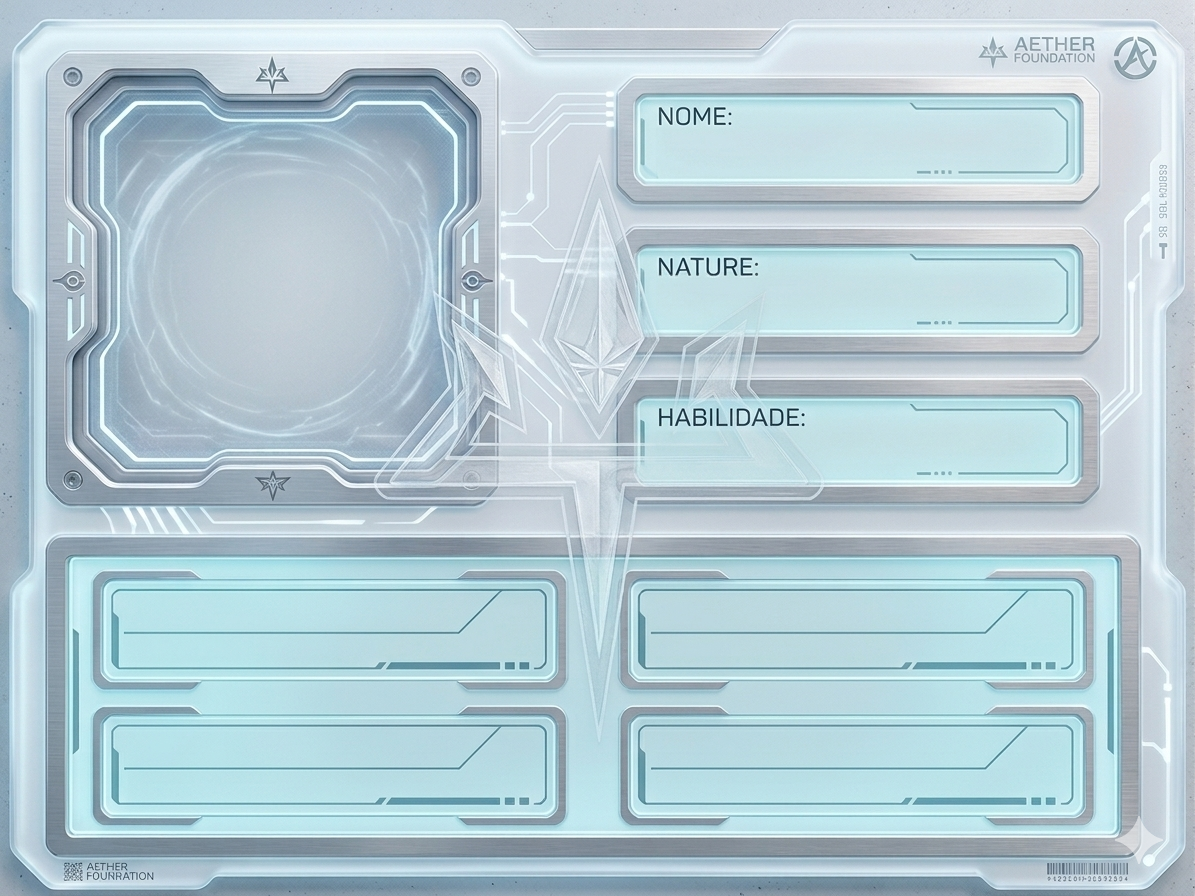
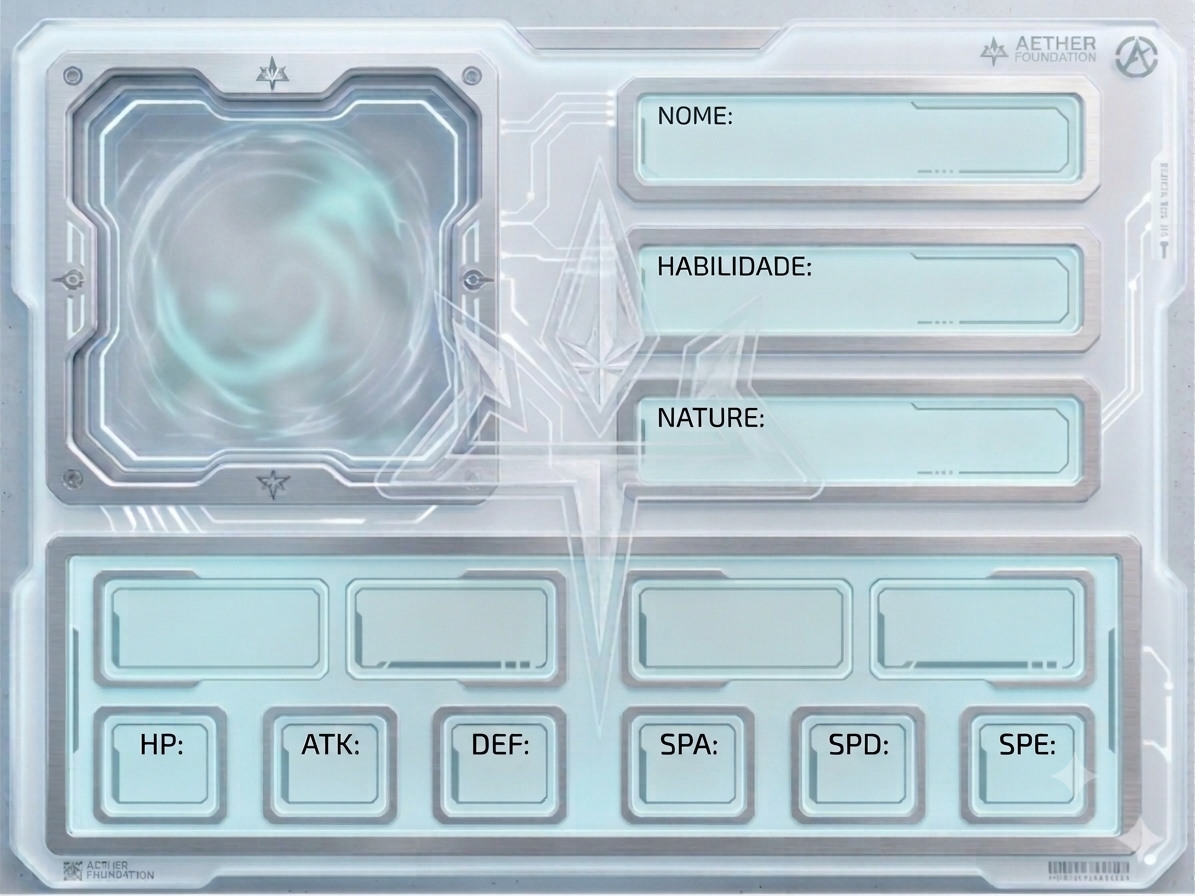
atualização pokemon id

diff --git a/sis_mestre/style-mestre.css b/sis_mestre/style-mestre.css
@@ -91,15 +91,31 @@ button:hover { background: #b7950b; }
     justify-content: flex-start;
     padding-left: 8px;
     overflow: hidden;
+    font-size: 10px;
+    letter-spacing: 2.5px;
 }
 
 #carta-sprite { position: absolute; top: 55px; left: 45px; width: 280px; height: 280px; object-fit: contain; }
-#carta-nome { top: 85px; left: 540px; }
-#carta-nature { top: 188px; left: 540px; }
-#carta-ability { top: 290px; left: 540px; }
+#carta-nome { top: 90px; left: 450px; }
+#carta-nature { top: 188px; left: 450px; }
+#carta-ability { top: 290px; left: 450px; }
 
-.move-box { width: 195px; height: 35px; display: flex; align-items: center; }
-#move1 { top: 400px; left: 150px; }
-#move2 { top: 490px; left: 150px; }
-#move3 { top: 400px; left: 500px; }
-#move4 { top: 490px; left: 500px; }
+.move-box { width: 180px; height: 35px; display: flex; align-items: center; }
+#move1 { top: 400px; left: 80px; }
+#move2 { top: 400px; left: 240px; }
+#move3 { top: 400px; left: 430px; }
+#move4 { top: 400px; left: 590px; }
+
+.stat-box {
+    width: 40px;
+    height: 25px;
+    justify-content: center;
+    font-size: 11px;
+}
+
+#stat-hp { top: 508px; left: 85px; }
+#stat-atk { top: 508px; left: 200px; }
+#stat-def { top: 508px; left: 315px; }
+#stat-spa { top: 508px; left: 440px; }
+#stat-spd { top: 508px; left: 555px; }
+#stat-spe { top: 508px; left: 670px; }

diff --git a/sis_mestre/script-mestre.js b/sis_mestre/script-mestre.js
@@ -26,6 +26,13 @@ async function atualizarPreview() {
                     document.getElementById('carta-sprite').src = novaUrl
                     document.getElementById('carta-sprite').style.display = 'block'
                 }
+
+                document.getElementById('stat-hp').textContent = data.stats[0].base_stat
+                document.getElementById('stat-atk').textContent = data.stats[1].base_stat
+                document.getElementById('stat-def').textContent = data.stats[2].base_stat
+                document.getElementById('stat-spa').textContent = data.stats[3].base_stat
+                document.getElementById('stat-spd').textContent = data.stats[4].base_stat
+                document.getElementById('stat-spe').textContent = data.stats[5].base_stat
             }
         } catch (error) {
             console.log("Pokémon ainda não encontrado...")

diff --git a/sis_mestre/index.html b/sis_mestre/index.html
@@ -59,6 +59,13 @@
                     <div id="move2" class="dado-carta move-box"></div>
                     <div id="move3" class="dado-carta move-box"></div>
                     <div id="move4" class="dado-carta move-box"></div>
+
+                    <div id="stat-hp" class="dado-carta stat-box"></div>
+                    <div id="stat-atk" class="dado-carta stat-box"></div>
+                    <div id="stat-def" class="dado-carta stat-box"></div>
+                    <div id="stat-spa" class="dado-carta stat-box"></div>
+                    <div id="stat-spd" class="dado-carta stat-box"></div>
+                    <div id="stat-spe" class="dado-carta stat-box"></div>
                 </div>
             </section>
         </main>
